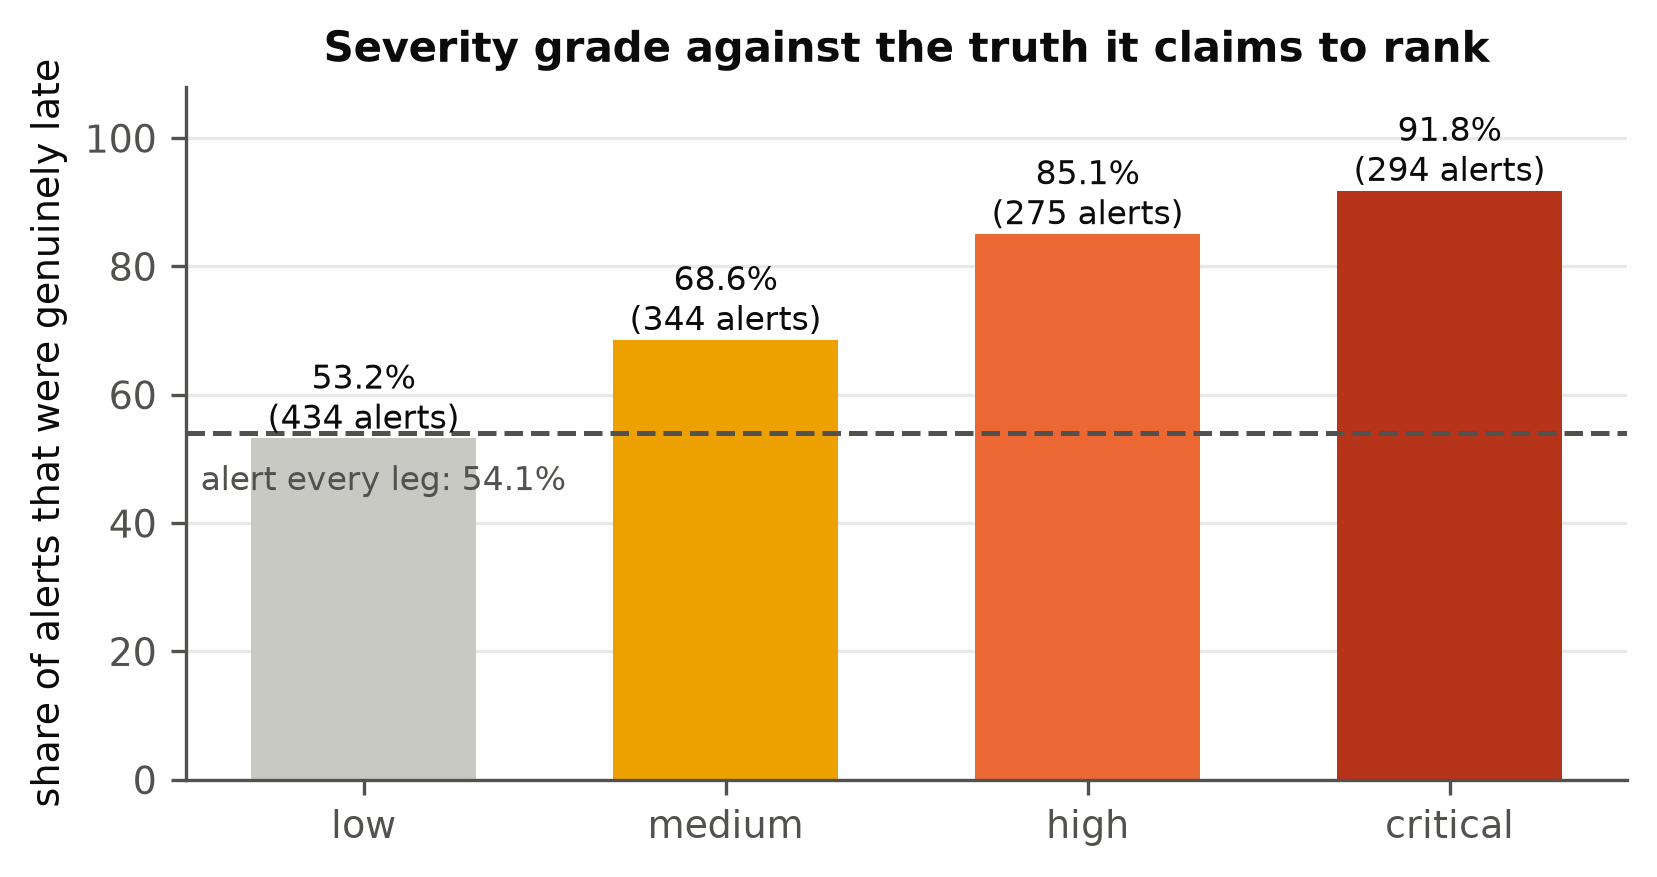
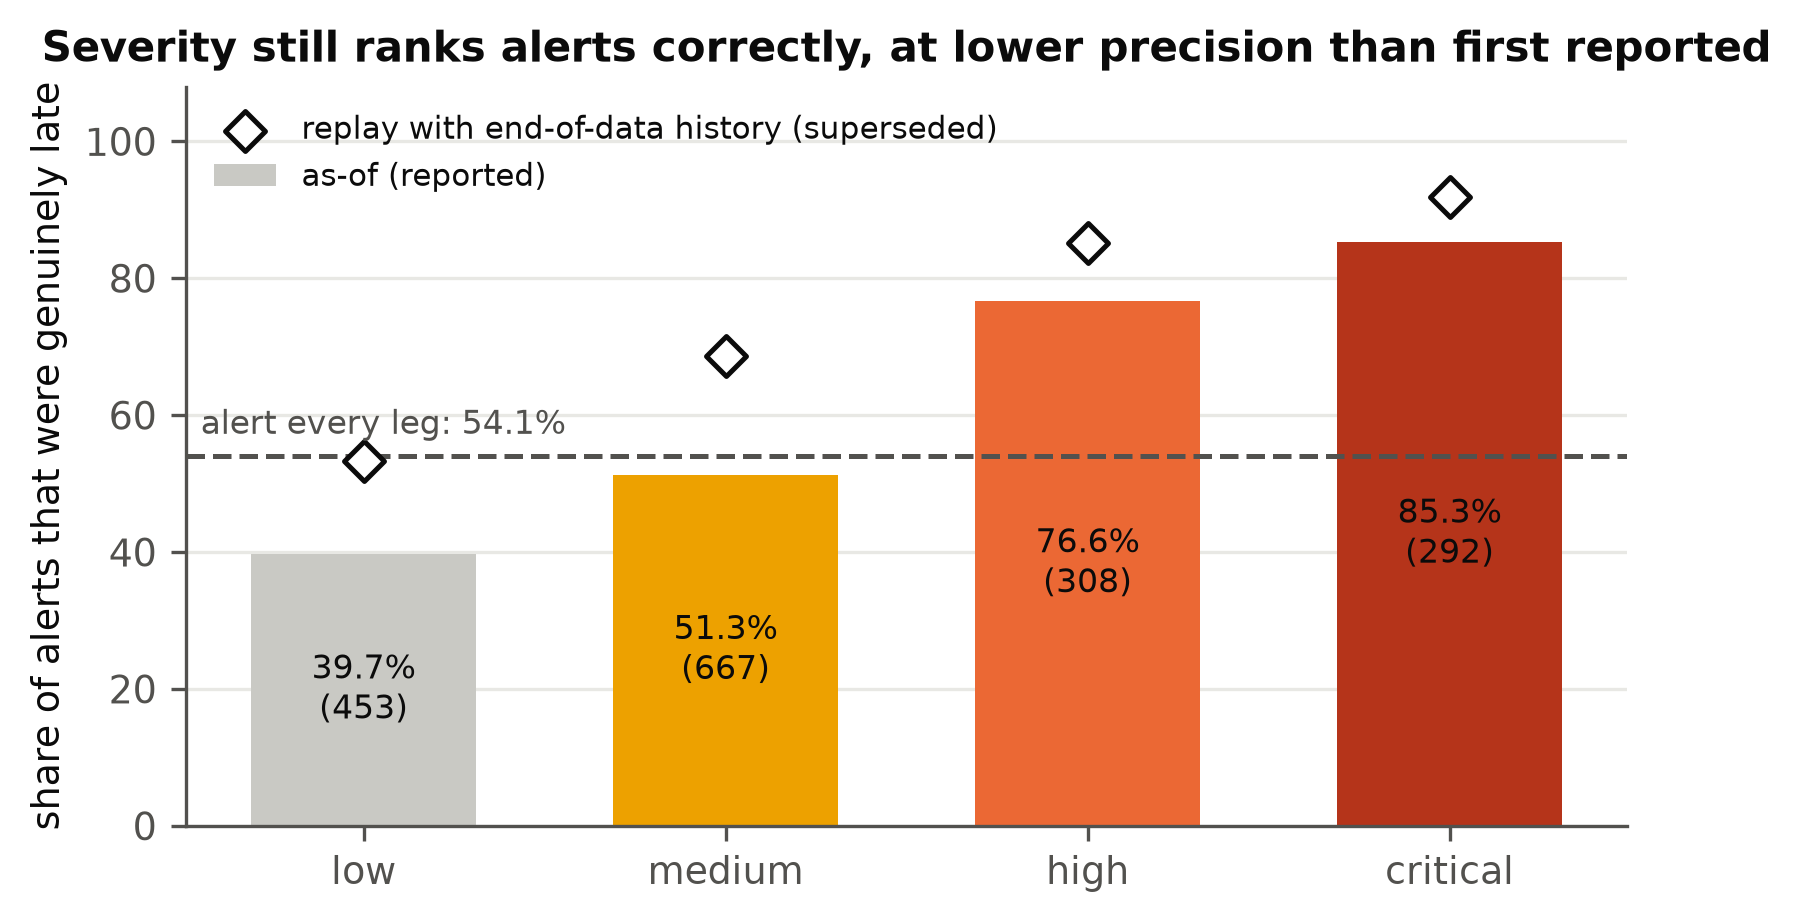
redraw figure 9 as-of, keeping the leaked values visible
Bars are the as-of severity precision from w8_replay_leakage.json; the
first, leaked measurement stays on the figure as hollow markers, because
the size of that gap is itself a result and a figure that silently
swapped numbers would hide it. The demo script quotes 59% and 85% and
tells the presenter to raise the correction before anyone else does.

diff --git a/src/report/figures.py b/src/report/figures.py
@@ -338,31 +338,45 @@ def fig8_scale() -> dict:
 
 
 def fig9_severity_precision() -> dict:
-    """The agent layer's one measured ranking claim: severity earns its place as a filter."""
-    data = json.loads((RAW / "w6_exception_eval.json").read_text(encoding="utf-8"))
-    rows = data["by_severity"]
-    order = ["low", "medium", "high", "critical"]
-    rows = sorted(rows, key=lambda r: order.index(r["severity"]))
-    base = data["legs_truly_delayed"] / data["legs_in_replay"]
+    """The agent layer's one measured ranking claim: severity earns its place as a filter.
 
-    fig, ax = plt.subplots(figsize=(6.2, 3.0))
-    bars = ax.bar([r["severity"] for r in rows], [r["precision"] * 100 for r in rows],
-                  color=[GREY, YELLOW, ORANGE, "#b5341a"], width=0.62)
+    Bars are the **as-of** measurement (D-054). The first version of this figure plotted
+    `w6_exception_eval.json`, a replay that scored early legs with end-of-data history; its
+    values are kept as hollow markers, because the size of that gap is itself a result
+    (P-62) and a figure that silently swapped numbers would hide it.
+    """
+    original = json.loads((RAW / "w6_exception_eval.json").read_text(encoding="utf-8"))
+    as_of = json.loads((RAW / "w8_replay_leakage.json").read_text(encoding="utf-8"))["exception_agent_as_of"]
+    order = ["low", "medium", "high", "critical"]
+    rows = sorted(as_of["by_severity"], key=lambda r: order.index(r["severity"]))
+    replayed = {r["severity"]: r["precision"] for r in original["by_severity"]}
+    base = original["legs_truly_delayed"] / original["legs_in_replay"]
+
+    fig, ax = plt.subplots(figsize=(6.2, 3.2))
+    x = range(len(rows))
+    bars = ax.bar(x, [r["precision"] * 100 for r in rows],
+                  color=[GREY, YELLOW, ORANGE, "#b5341a"], width=0.62, label="as-of (reported)")
+    ax.scatter(x, [replayed[r["severity"]] * 100 for r in rows], marker="D", s=46,
+               facecolors="white", edgecolors=INK, linewidths=1.2, zorder=3,
+               label="replay with end-of-data history (superseded)")
     for bar, r in zip(bars, rows):
-        ax.text(bar.get_x() + bar.get_width() / 2, r["precision"] * 100 + 1.5,
-                f"{r['precision'] * 100:.1f}%\n({r['notified']:,} alerts)", ha="center", fontsize=8)
+        ax.text(bar.get_x() + bar.get_width() / 2, r["precision"] * 100 / 2,
+                f"{r['precision'] * 100:.1f}%\n({r['notified']:,})", ha="center", va="center",
+                fontsize=8, color=INK)
     ax.axhline(base * 100, color=MUTED, ls="--", lw=1.2)
-    # Under the line and at the left, where the only bar is the one that sits on it.
-    ax.annotate(f"alert every leg: {base * 100:.1f}%", xy=(-0.45, base * 100 - 5),
-                ha="left", va="top", color=MUTED, fontsize=8)
+    ax.annotate(f"alert every leg: {base * 100:.1f}%", xy=(-0.45, base * 100 + 2),
+                ha="left", va="bottom", color=MUTED, fontsize=8)
+    ax.set_xticks(list(x), [r["severity"] for r in rows])
     ax.set_ylabel("share of alerts that were genuinely late")
     ax.set_ylim(0, 108)
-    ax.set_title("Severity grade against the truth it claims to rank")
+    ax.set_title("Severity still ranks alerts correctly, at lower precision than first reported")
+    ax.legend(frameon=False, fontsize=7.5, loc="upper left")
     ax.grid(axis="y")
     ax.set_axisbelow(True)
     return _finish(fig, "fig9_severity_precision",
-                   "Notification precision by computed severity over a 2,000-leg replay, against the "
-                   "trivial policy of alerting every leg. Source: w6_exception_eval.json")
+                   "Notification precision by computed severity over the earliest 2,000 replayed legs, "
+                   "scored with the history each leg had at its own time; hollow markers are the first, "
+                   "leaked measurement (D-054). Sources: w8_replay_leakage.json, w6_exception_eval.json")
 
 
 FIGURES = {

diff --git a/docs/figures/README.md b/docs/figures/README.md
@@ -14,4 +14,4 @@ Every figure is built from a file in `benchmarks/raw/`. PNG at 300 dpi for slide
 | [`fig6_mae_by_support`](fig6_mae_by_support.png) | Test MAE by how much history the corridor had. On unseen corridors 111.2 → 75.9 min; elsewhere the gain is 0.02-0.51 min. Source: w7_model_metrics_v2_stepsize.csv |
 | [`fig7_threshold_sensitivity`](fig7_threshold_sensitivity.png) | Alerting across delay thresholds. The logistic classifier holds MCC 0.507-0.540 while the share of legs alerted falls 98% to 49%; the stream's own flag is weaker at every threshold. Source: w5_threshold_sensitivity.csv |
 | [`fig8_scale_runtime`](fig8_scale_runtime.png) | network_baseline and corridor_aggregate imported unchanged; wall time includes each run's parquet scan. Source: w7_scale_benchmark.json |
-| [`fig9_severity_precision`](fig9_severity_precision.png) | Notification precision by computed severity over a 2,000-leg replay, against the trivial policy of alerting every leg. Source: w6_exception_eval.json |
+| [`fig9_severity_precision`](fig9_severity_precision.png) | Notification precision by computed severity over the earliest 2,000 replayed legs, scored with the history each leg had at its own time; hollow markers are the first, leaked measurement (D-054). Sources: w8_replay_leakage.json, w6_exception_eval.json |
